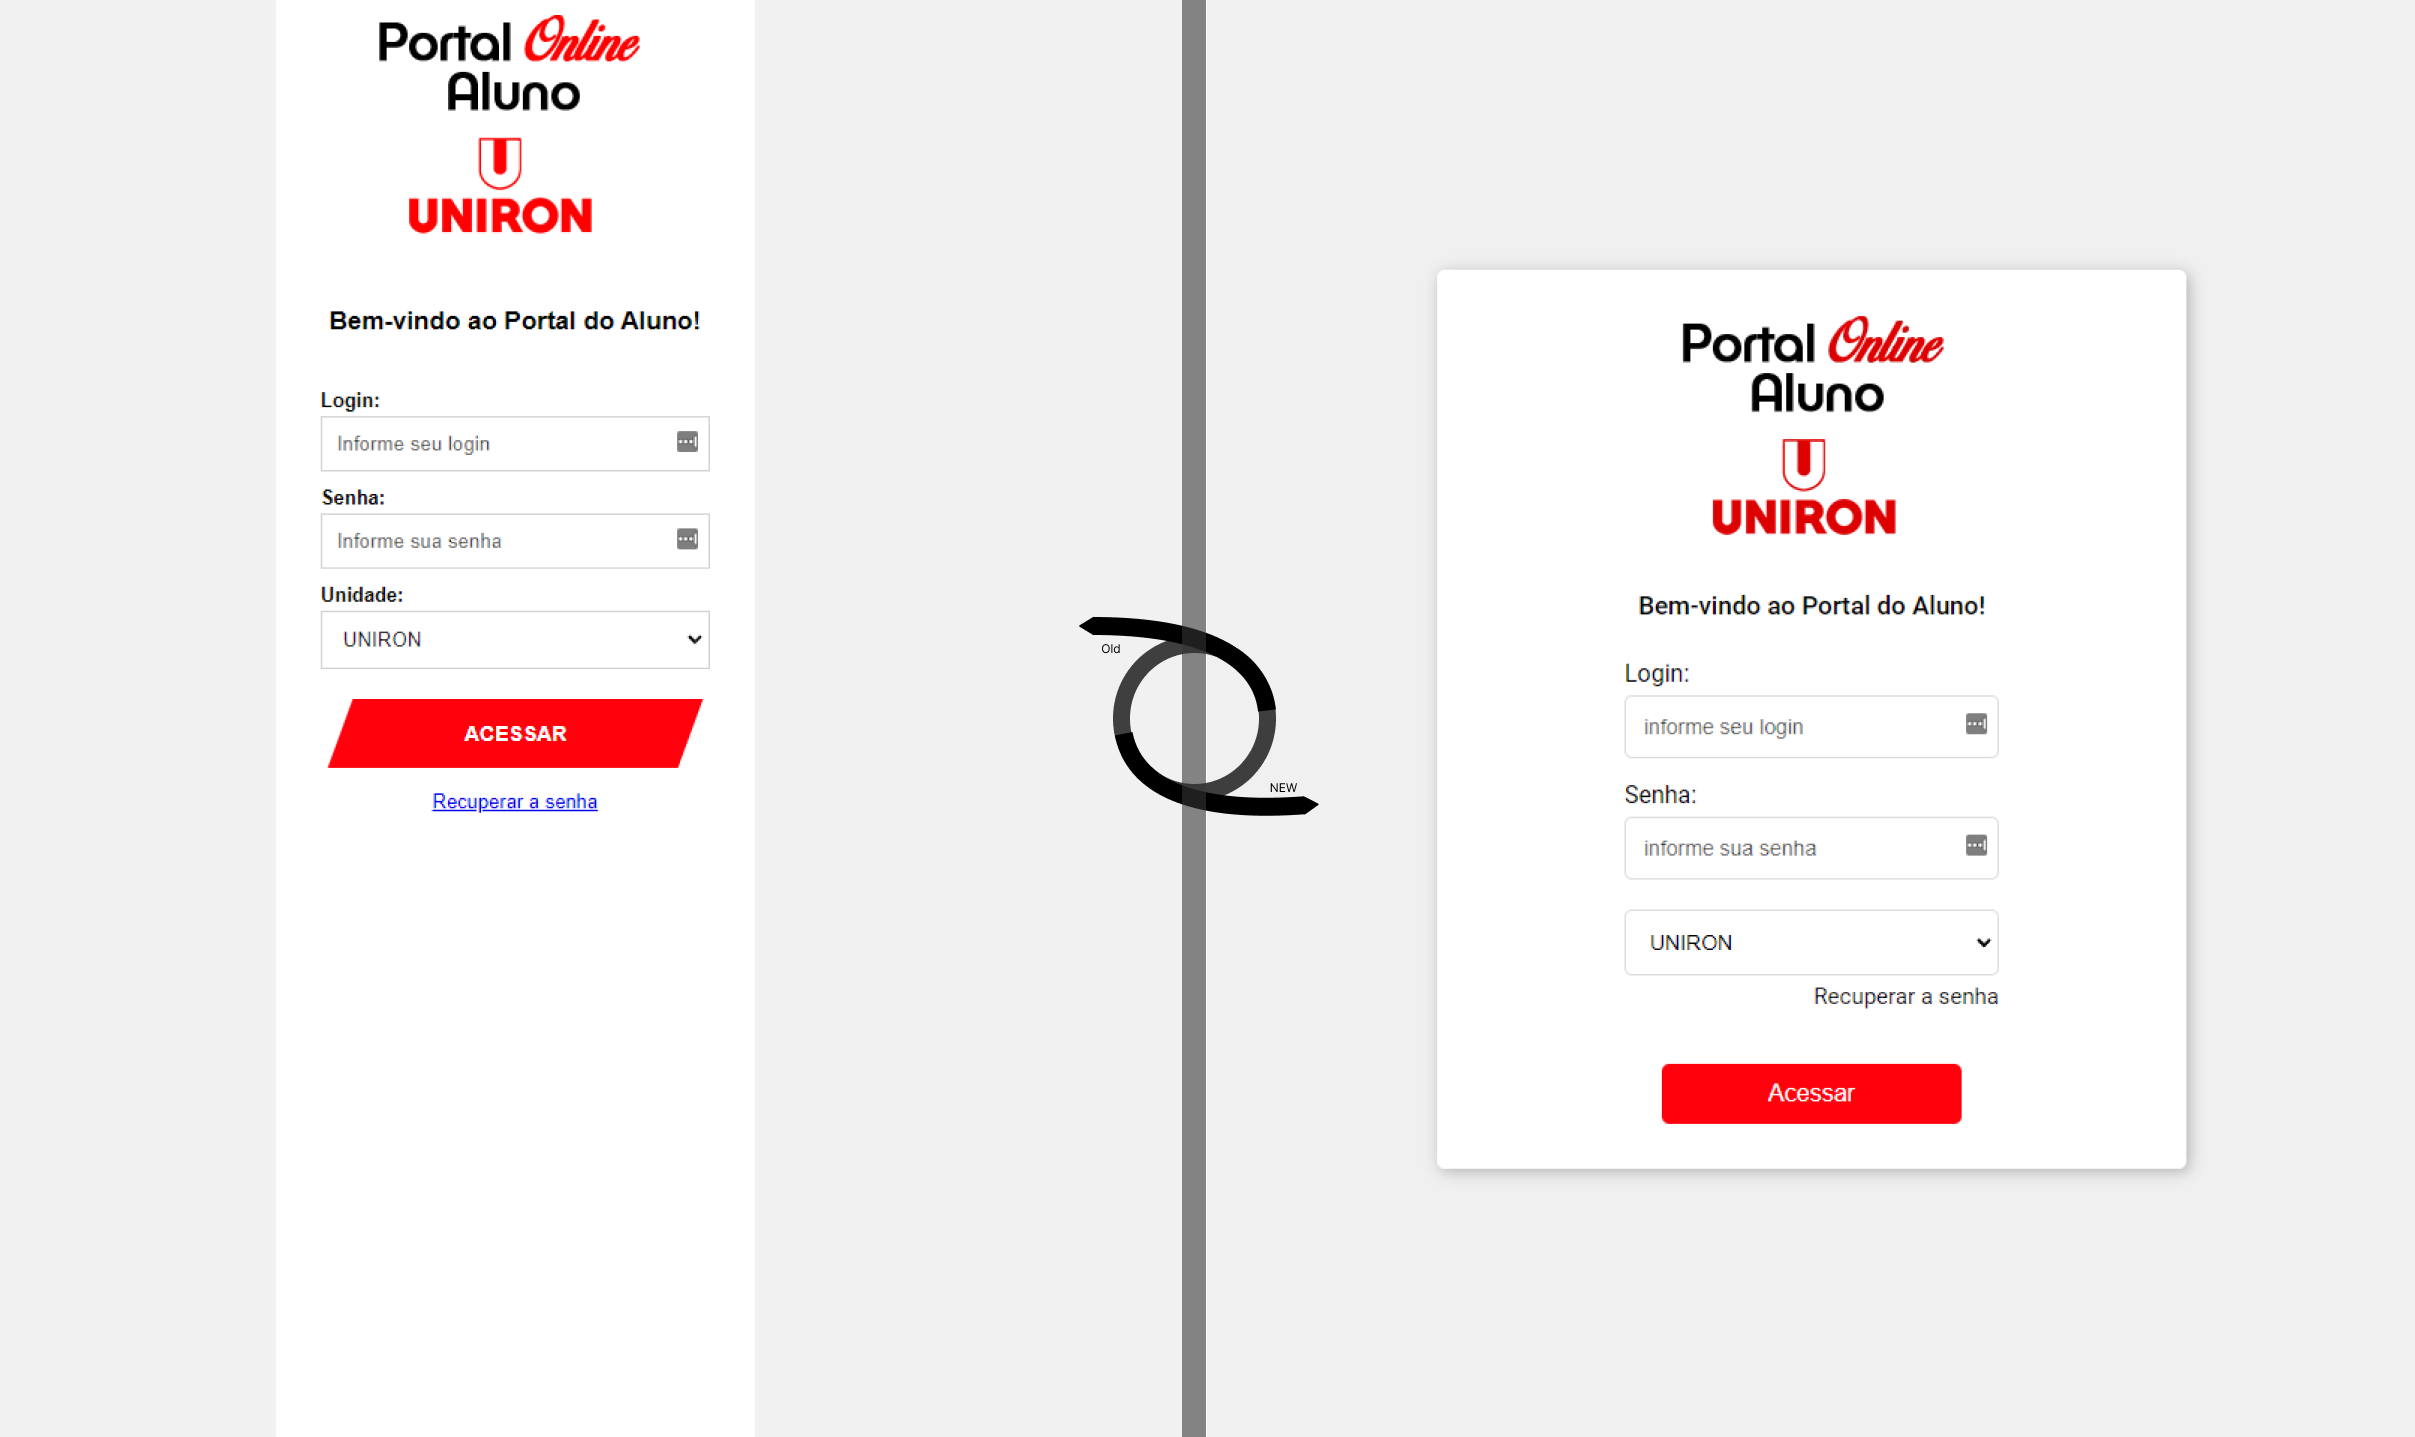
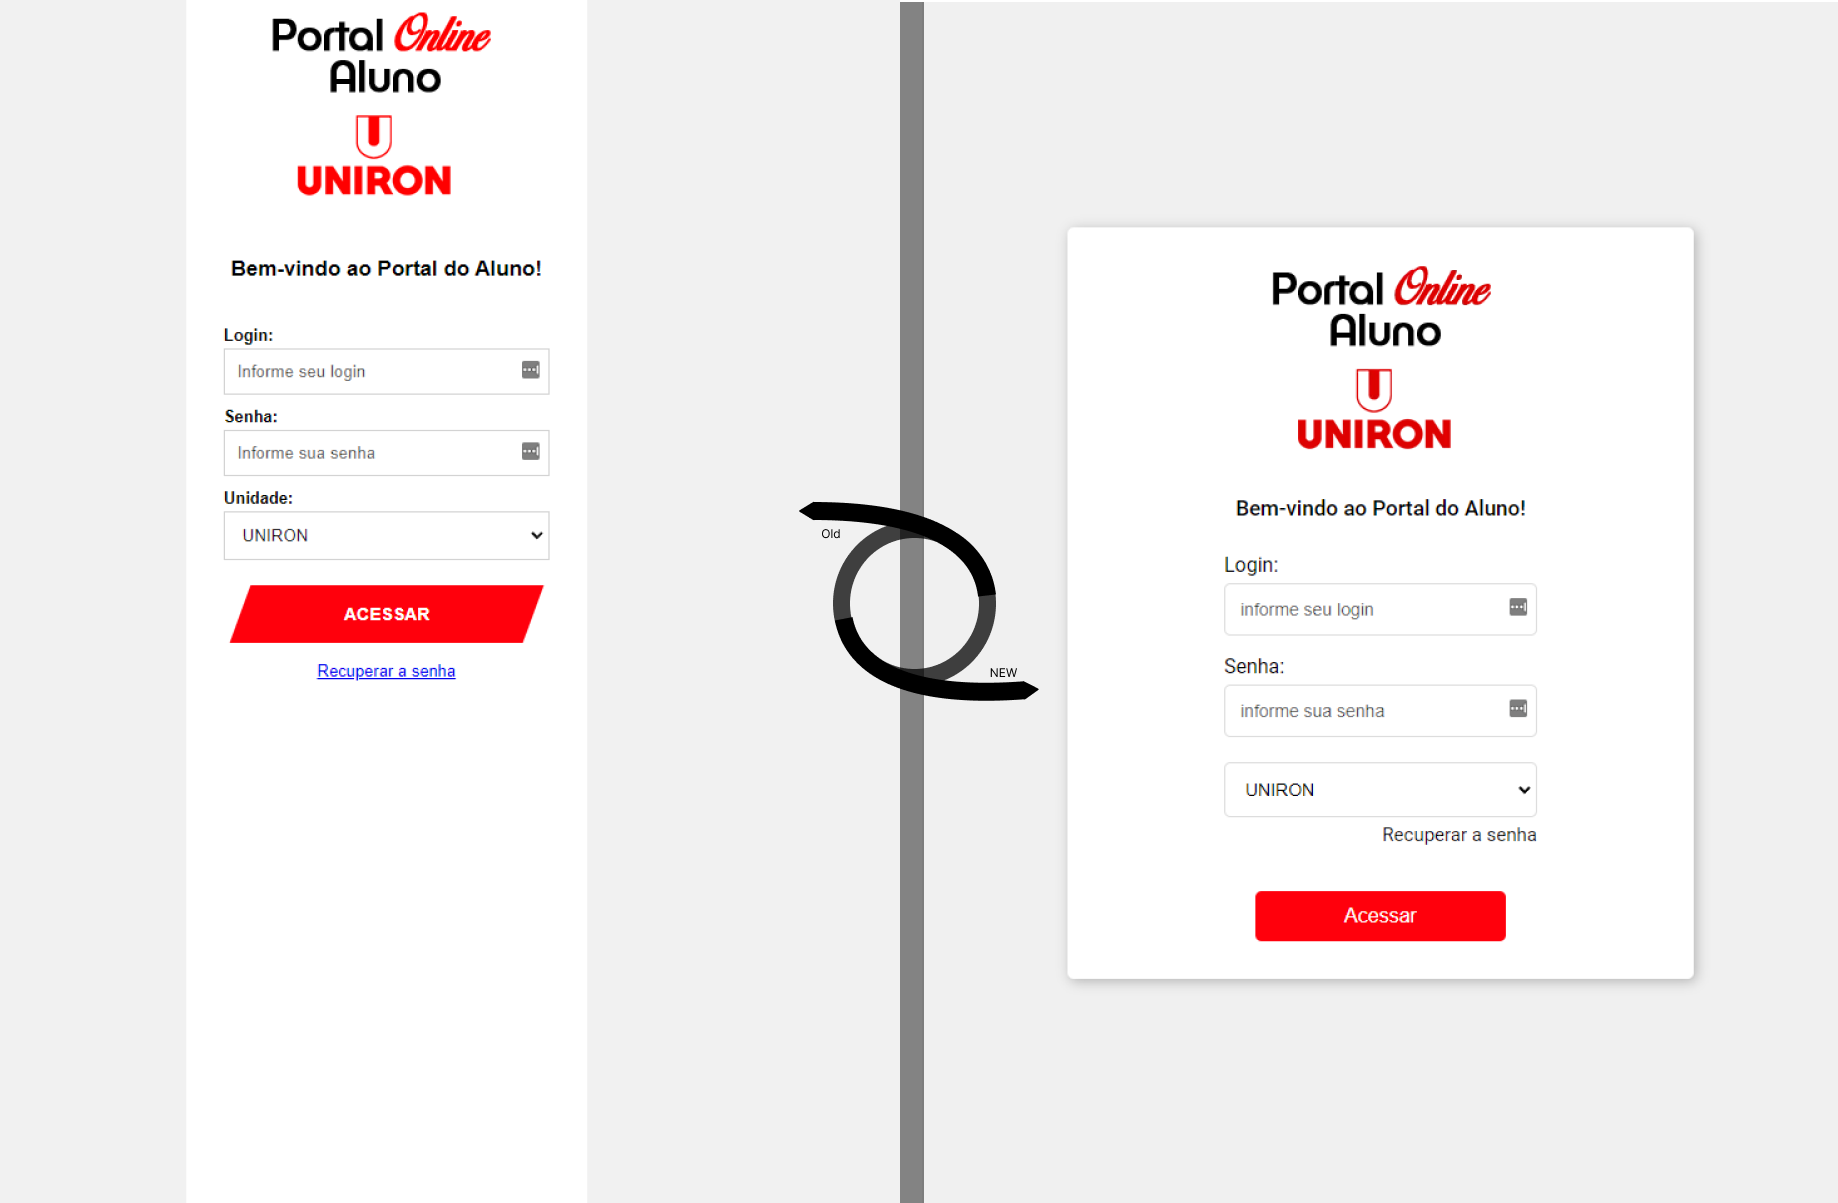
Formart images README

diff --git a/README.md b/README.md
@@ -1,6 +1,8 @@
 # Clonando a interface da instituição Uniron
 
-![alt](/public/preview/Review.png)
+![alt](/public/preview/Old.png)
+# Comparação do antigo pro novo
+![alt](/public/preview/New.png)
 
 
 This is a [Next.js](https://nextjs.org/) project bootstrapped with [`create-next-app`](https://github.com/vercel/next.js/tree/canary/packages/create-next-app).
